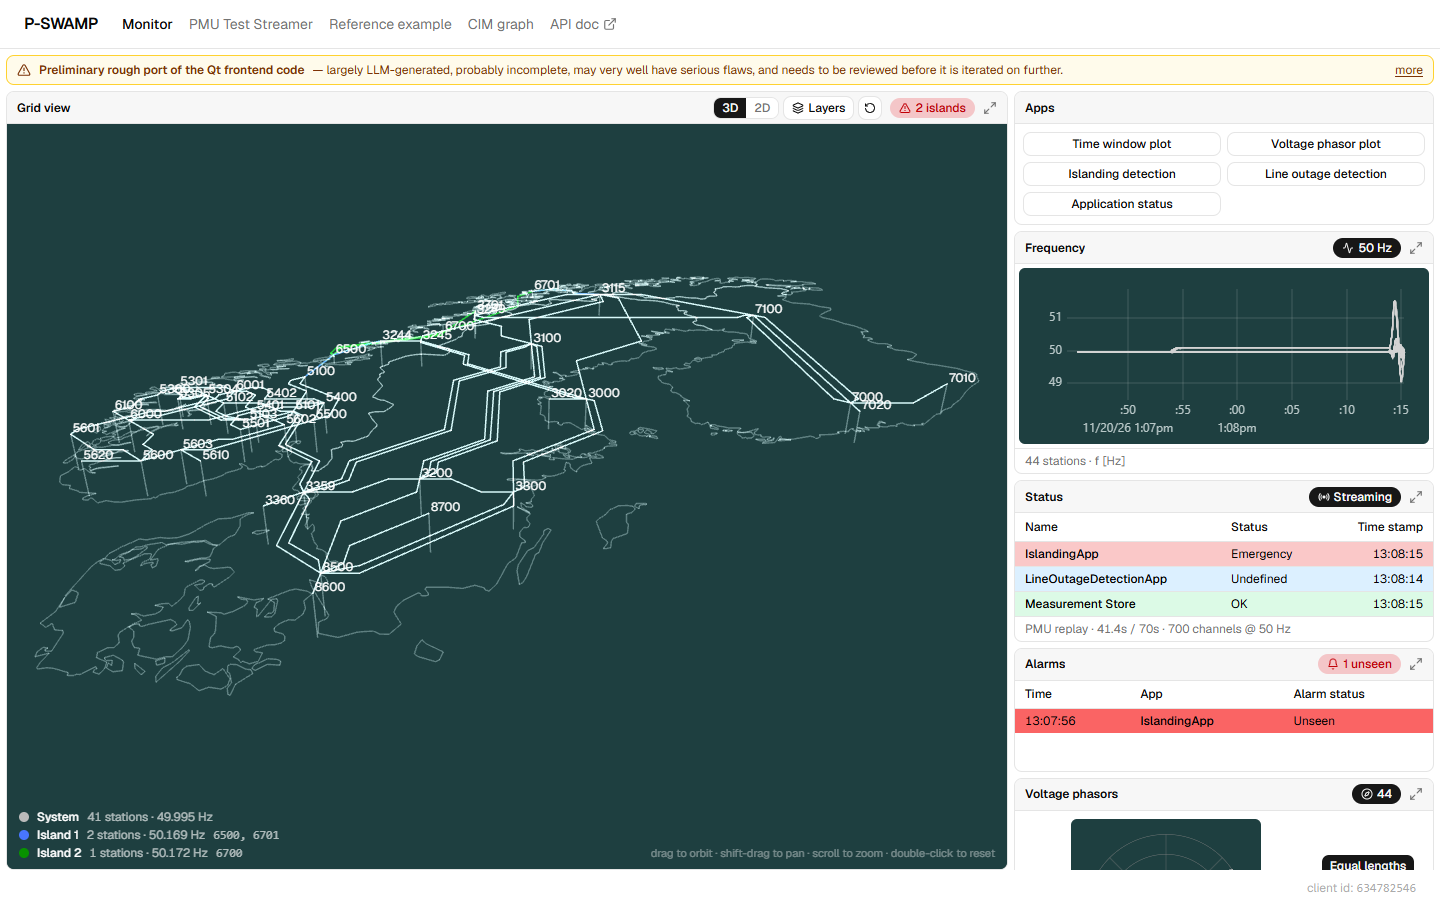
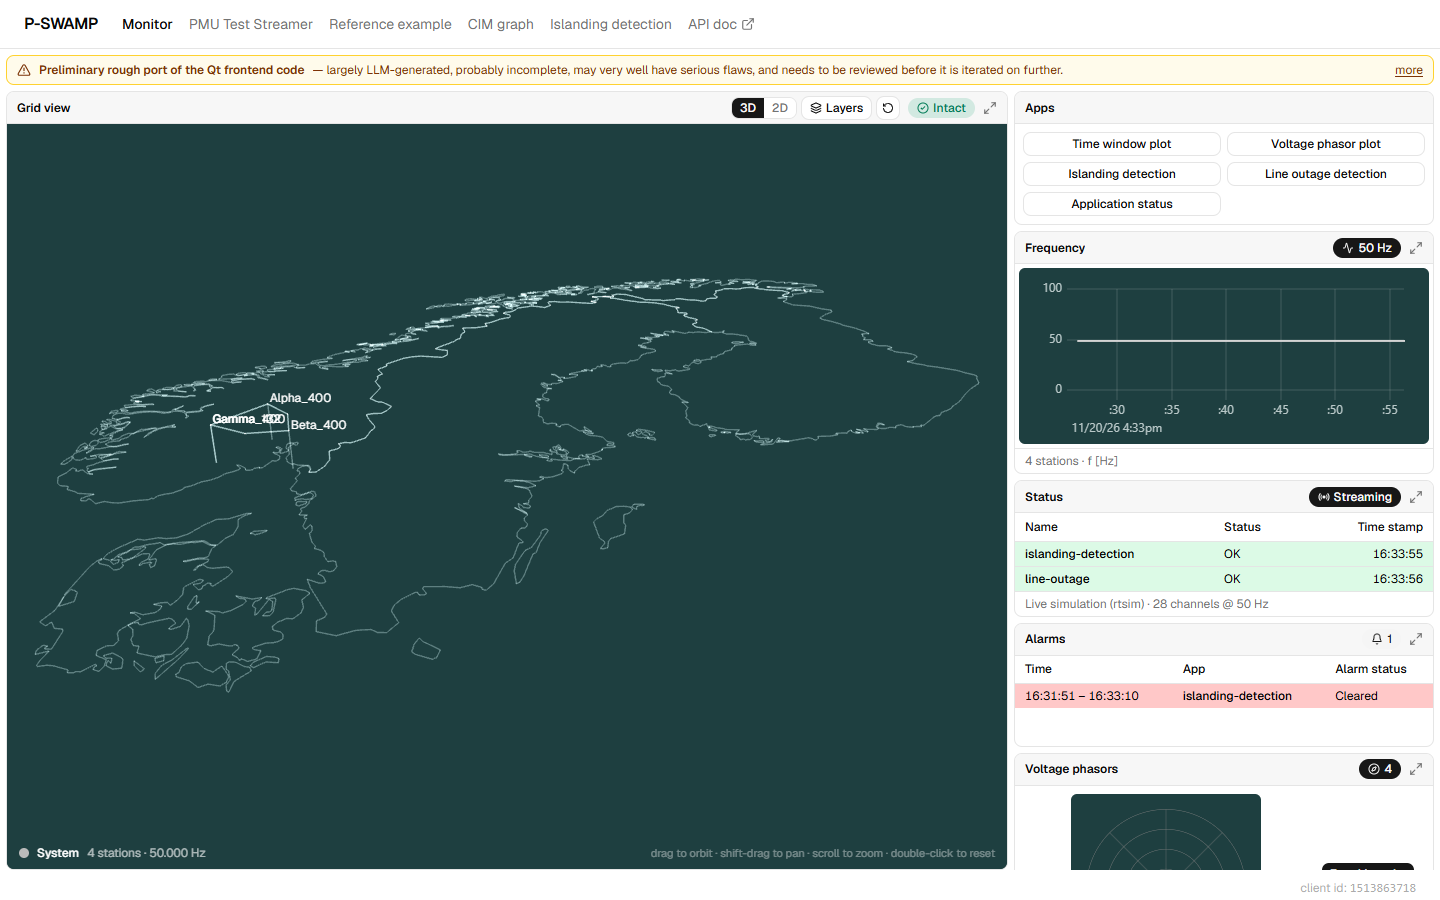
docs: the monitor shows the live grid simulation
Since #30 the monitor follows one shared simulation of the grid in the
CIM graph instead of replaying a recording per browser. Home, Start it,
the tour, About and data licensing say so: nothing happens until someone
disturbs the grid on the CIM graph page, alarms are shared, and offline
the sample grid stands in for Nordic44. The recording and the old map
geometry are gone from data licensing, and the monitor and streamer
screenshots are retaken on the sample grid.

diff --git a/doc/start/tour.md b/doc/start/tour.md
@@ -3,25 +3,25 @@
 With p-SWAMP [running](first-run.md), the bar at the top of the page leads to
 each part of it. This page shows what each one is, and what to try.
 
-Everything you do is private to your browser and undone by a restart: each
-browser gets its own replay, starting from the beginning, and nothing is saved.
-The one exception is the grid on the **CIM graph** page, which everyone
-connected to the same server shares.
+There is one simulated grid, shared by everyone connected to the same server:
+what one person does to it on the **CIM graph** page, everyone sees on the
+monitor, and an alarm one person acknowledges is acknowledged for all. Nothing
+is saved: a restart puts the grid back as it was loaded. The PMU test streamer
+is the exception: there each browser gets a replay of its own.
 
 ## The monitor
 
 <figure markdown>
-![The monitor: the Nordic 44 grid drawn in 3D in the middle, with a red "2 islands" badge; on the right, the list of monitoring applications, a frequency chart with a spike, a status table with the islanding application in emergency, and an unseen alarm.](../assets/screenshots/monitor.png)
-<figcaption markdown>The monitor about 40 seconds into the replay, just after
-the line trip: two small islands have separated from the rest of the grid.
-Simulated data from the Nordic 44 test grid; see
-[data licensing](../project/data-licensing.md).</figcaption>
+![The monitor: the sample grid's three substations drawn in 3D over a map of the Nordic countries, marked "Intact"; on the right, the list of monitoring applications, a flat frequency chart at 50 Hz, a status table with both monitoring modules OK and the simulation streaming, and one cleared islanding alarm.](../assets/screenshots/monitor.png)
+<figcaption markdown>The monitor over p-SWAMP's small sample grid, three
+substations in southern Norway, with the grid whole. The alarm listed was raised
+when both lines into one substation were opened, and cleared once the grid was
+put back.</figcaption>
 </figure>
 
-The **Monitor** is the main window. It replays a 70-second recording of the
-Nordic 44 test grid, measured by PMUs at all 44 of its stations, 50 times a
-second, through p-SWAMP's monitoring applications, exactly as if it were
-happening now.
+The **Monitor** is the main window. It shows the simulation of the grid running
+behind the CIM graph page, measured by a PMU at every station 50 times a second,
+and what p-SWAMP's monitoring modules make of it, as it happens.
 
 - **The grid view** in the middle draws the grid over a map of the Nordic
   countries. Each separate part of the grid (an *island*) has its own colour, and
@@ -29,8 +29,9 @@ happening now.
   or switch to **2D**. **Layers** spreads the frequency or the voltage over the
   map as a colour field.
 - **Frequency** plots every station's frequency over the last few seconds.
-- **Status** shows each monitoring application and what it currently reports.
-- **Alarms** lists what the applications raised. Click one to see its details,
+- **Status** shows each monitoring module and what it currently reports, and
+  whether the simulation is streaming.
+- **Alarms** lists what the modules raised. Click one to see its details,
   acknowledge it, and add a note.
 - **Voltage phasors** draws each station's voltage as an arrow: its length is
   the voltage, its angle the phase. When the grid is stressed, the arrows fan
@@ -38,11 +39,11 @@ happening now.
 - **Line outages** lists the lines whose current dropped to zero, and when they
   came back.
 
-**What to watch for.** About half a minute in, a line trips. Several stations
-in the north are cut off from the rest of the grid: the grid view shows them as
-separate islands, the islanding application raises an alarm, and the line
-outage detector lists the lines that went out. Later the line is reconnected and
-the islands rejoin.
+**What to try.** Nothing happens to the grid on its own. On the CIM graph page,
+open every line into one substation: on the monitor, that part of the grid
+becomes an island with a colour of its own, the islanding detector raises an
+alarm, and the line outage detector lists the lines that went out. Close them
+again, or press **Reset grid**, and the island rejoins.
 
 Each panel has an expand button (:material-arrow-expand:) that opens it on a
 page of its own, full size.
@@ -77,7 +78,7 @@ response (open breakers) does change it, as it would in a real control system.
 ## The PMU test streamer
 
 <figure markdown>
-![The PMU test streamer: a table of five stations with voltage, angle and frequency; a choice of source (sample, live, rtsim); the frame statistics, excursion and summary results; and player controls with a timeline.](../assets/screenshots/pmu-test-streamer.png)
+![The PMU test streamer: a table of five stations with voltage, angle and frequency; a choice of source (sample, live); the frame statistics, excursion and summary results; and player controls with a timeline.](../assets/screenshots/pmu-test-streamer.png)
 <figcaption>The PMU test streamer, paused at the start of the sample recording.</figcaption>
 </figure>
 
@@ -86,7 +87,8 @@ than a monitoring screen. It shows one stream of measurements going through a
 chain of [modules](../modules/index.md):
 
 - **The source**: choose between the short sample recording (*sample*), a looping
-  imitation of a live feed (*live*), and the live grid simulation (*rtsim*).
+  imitation of a live feed (*live*), and an installation's measurement archive
+  (*remote*), where one is configured.
 - **The player**: play, pause, step, jump to an instant or change the speed of a
   recording. A live source can only be followed.
 - **The results** of three analysis modules: [frame statistics](../modules/frame-stats/index.md)
@@ -97,6 +99,13 @@ chain of [modules](../modules/index.md):
 
 Developers use it to check that a change to p-SWAMP's core still works end to
 end.
+
+## Islanding detection
+
+The **Islanding detection** page shows the latest result of the
+[islanding detection](../modules/islanding-detection/index.md) module on its
+own: whether the grid is whole, and its alarm while one is active. It is the
+same module the monitor uses, on a page that shows nothing else.
 
 ## The reference example
 

diff --git a/doc/project/data-licensing.md b/doc/project/data-licensing.md
@@ -25,26 +25,22 @@ part of the source.
 
 ## Recordings in the repository
 
-Two recordings in the repository hold *simulated* data from a Nordic 44 test
+One recording in the repository holds *simulated* data from a Nordic 44 test
 system, produced with the TOPS power system simulator:
+`modules/sample-replay/src/pswamp_modules/sample_replay/sample_data.txt`, the
+three-second sample recording (with its copy in `live-synthetic`).
 
-| File | What it is |
-|---|---|
-| `app/server-python/src/pswamp_web/data/n44_line_trip_50hz.npz` | The 70-second recording the monitor replays: a line trip and its reconnection. |
-| `modules/sample-replay/src/pswamp_modules/sample_replay/sample_data.txt` | The three-second sample recording (and its copy in `live-synthetic`). |
-
-They are simulations, not measurements of a real grid. Figures and screenshots
-on this site made from them say so in their captions.
+It is a simulation, not a measurement of a real grid. Figures on this site made
+from it say so in their captions.
 
 ## The monitor's map
 
-The monitor draws the grid over country outlines, from
-`app/server-python/src/pswamp_web/data/n44_grid_geometry.json`. That file is
-built (`app/server-python/tools/build_n44_grid_geometry.py`) from two inputs in
-the desktop package: the Nordic 44 single-line diagram
-(`desktop/src/pswamp/test_utils/sample_datasets/n44/sld_geo.dxf`) and a
-shapefile of country outlines
-(`desktop/src/pswamp/visualization/countries_geo_data/`).
+The monitor draws the grid where the grid model places it (its geographical
+profile), so it shows whatever grid p-SWAMP was started on. Under it, when the
+grid lies inside them, it draws the Nordic coastlines and borders from
+`app/server-python/src/grid_monitor/data/nordic_outlines.json`: the outlines the
+desktop application's grid view draws, from the shapefile in
+`desktop/src/pswamp/visualization/countries_geo_data/`.
 
 ## Map tiles
 

diff --git a/doc/start/first-run.md b/doc/start/first-run.md
@@ -23,8 +23,9 @@ Open <http://127.0.0.1:8000> in your browser. You should see the **Monitor**:
 a map of the Nordic 44 test grid in the middle, and panels beside it for
 frequency, status, alarms, phasors and line outages.
 
-The monitor replays a 70-second recording from the beginning each time you open
-it. About half a minute in, a line trips: watch the map and the alarms.
+The monitor shows a simulation of the grid running in real time. Nothing happens
+to it on its own: to see the monitor react, open the **CIM graph** page in a
+second tab, trip a line or open a breaker there, and watch the monitor.
 
 The [tour](tour.md) explains what each page shows.
 
@@ -40,9 +41,26 @@ experiment freely.
 complete`; the first build is slow. Check that nothing else on your computer
 already uses port 8000.
 
-**The CIM graph page says the grid is loading.** When it starts, p-SWAMP
-downloads the Nordic 44 grid model from the internet. Give it a minute; without
-internet access the page says the grid is not available.
+**The monitor stays empty, or the CIM graph page says the grid is loading.**
+When it starts, p-SWAMP downloads the Nordic 44 grid model from the internet,
+and both pages wait for it. Give it a minute. Without internet access the grid
+is not available; start p-SWAMP on the small sample grid it ships with instead:
+
+=== "Windows (PowerShell)"
+
+    ```powershell
+    $env:PSWAMP_CIM_PATH = "/workspace/p-SWAMP/core/src/pswamp_core/cim/sample_grid"
+    uv run pswamp dev server
+    ```
+
+=== "macOS and Linux"
+
+    ```shell
+    PSWAMP_CIM_PATH=/workspace/p-SWAMP/core/src/pswamp_core/cim/sample_grid uv run pswamp dev server
+    ```
+
+The path is the one inside p-SWAMP's container, so it is the same on every
+computer.
 
 **`pswamp dev server` cannot find Docker or Podman.** Start Docker Desktop or
 Podman Desktop first, then run the command again.

diff --git a/doc/index.md b/doc/index.md
@@ -37,10 +37,10 @@ simulated or live data, before they go anywhere near a control room.
 
 ## What you can do with it
 
-**Replay a disturbance and watch it unfold.** p-SWAMP ships with a recording of
-the Nordic 44 test grid during a line trip and its reconnection. The monitor
-replays it in real time: the grid on a map, the frequency of every station, the
-voltage phasors, and the alarms raised when part of the grid is cut off.
+**Watch a grid as an operator would.** The monitor shows a simulation of the
+Nordic 44 test grid as it runs, measured by PMUs at every station: the grid on a
+map, the frequency of every station, the voltage phasors, and the alarms raised
+when part of the grid is cut off or a line stops carrying current.
 
 **Operate a simulated grid.** A real-time simulation of the grid runs behind a
 map. Open a breaker, trip a line or cause a short circuit, and see the

diff --git a/doc/concepts/wampac.md b/doc/concepts/wampac.md
@@ -31,7 +31,7 @@ measures the voltages and currents there, together with their *phase*: where
 each one is in its 50 Hz cycle at that instant. Every PMU stamps its
 measurements with the time from GPS, so measurements taken hundreds of
 kilometres apart can be compared at the same instant. A PMU reports many times
-a second (50 times, in p-SWAMP's recordings).
+a second (50 times, in p-SWAMP's grid simulation).
 
 A voltage measured this way is a **phasor**: a size (the voltage) and an angle
 (its phase). Comparing the angles of two stations shows how hard the grid is

diff --git a/doc/project/about.md b/doc/project/about.md
@@ -29,8 +29,9 @@ The repository holds two implementations side by side:
 - the **web application** these pages describe: a server and a browser client,
   with the analyses as independent modules.
 
-The web application's monitor runs on the desktop application's analysis
-code, so the two share their monitoring applications.
+The web application's monitor runs the desktop application's monitoring
+algorithms (islanding and line outage detection), ported to modules, over a live
+simulation of the grid.
 
 ## Licence
 
